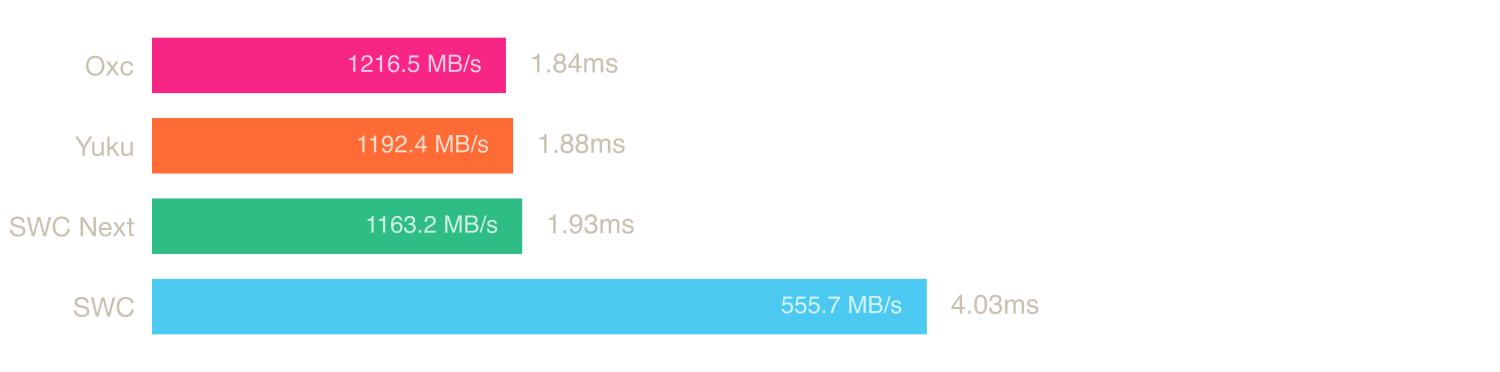
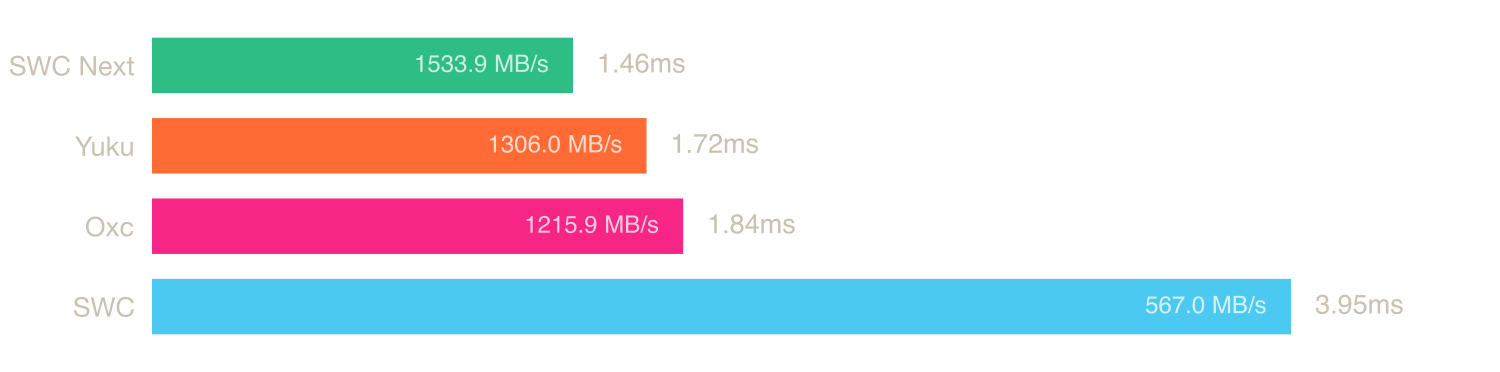
chore: benchmark published SWC Next 0.2.4 crates

diff --git a/scripts/generate-readme.ts b/scripts/generate-readme.ts
@@ -35,7 +35,7 @@ const PARSERS = {
   swc_next: {
     name: "SWC Next",
     language: "Rust",
-    description: "The next-generation SWC parser, built from the local swc-next Rust checkout.",
+    description: "The next-generation SWC parser, built from its published crates.io release.",
     url: "https://github.com/swc-project/swc-next",
     semantic: false,
   },
@@ -390,7 +390,7 @@ function getSystemInfo(metadata: BenchmarkMetadata): string {
 | Zig | ${metadata.toolchains.zig} |
 | Bun | ${metadata.toolchains.bun} |
 
-Oxc: \`${metadata.parsers.oxc_parser}\`; SWC: \`${metadata.parsers.swc_ecma_parser}\`; SWC Next: \`${metadata.parsers.swc_next_ecma_parser}\` at [\`${metadata.swcNext.commit}\`](https://github.com/swc-project/swc-next/commit/${metadata.swcNext.commit})${metadata.swcNext.dirty ? " (modified checkout)" : " (clean checkout)"}.
+Oxc: \`${metadata.parsers.oxc_parser}\`; SWC: \`${metadata.parsers.swc_ecma_parser}\`; SWC Next: \`${metadata.parsers.swc_next_ecma_parser}\` from [crates.io](https://crates.io/crates/swc_next_ecma_parser/${metadata.parsers.swc_next_ecma_parser}).
 
 Yuku source: [pinned revision](${metadata.yuku.replace("git+", "").replace("/?ref=HEAD#", "/commit/")}). Fixture source: [\`${metadata.fixturesCommit}\`](https://github.com/yuku-toolchain/parser-benchmark-files/commit/${metadata.fixturesCommit}). Toolchain versions, input sizes and SHA-256 hashes, and binary hashes are saved in [result/metadata.json](result/metadata.json).`;
 }
@@ -403,7 +403,6 @@ function generateRunSection(): string {
 - [Bun](https://bun.sh/) - JavaScript runtime and package manager
 - [Rust](https://www.rust-lang.org/tools/install) - For building Rust-based parsers
 - [Zig](https://ziglang.org/download/) - For building Zig-based parsers (tested version recorded above)
-- A local [SWC Next](https://github.com/swc-project/swc-next) checkout next to this repository (\`../swc-next\`); the Rust suite uses path dependencies
 
 ### Steps
 
@@ -414,7 +413,7 @@ git clone https://github.com/yuku-toolchain/ecmascript-parser-benchmark-native.g
 cd ecmascript-parser-benchmark-native
 \`\`\`
 
-If SWC Next is not already checked out, run \`git clone https://github.com/swc-project/swc-next.git ../swc-next\`. To reproduce the recorded source, check out the SWC Next commit listed above in a clean sibling checkout. An existing local checkout is used as-is.
+SWC Next dependencies are pinned to the published crates.io release in \`rust-next/Cargo.toml\` and \`rust-next/Cargo.lock\`. Cargo downloads those registry packages; no sibling SWC Next repository or path dependency is used. Package versions, registry sources, and checksums are recorded in \`result/metadata.json\`.
 
 2. Install dependencies:
 

diff --git a/scripts/metadata.ts b/scripts/metadata.ts
@@ -9,11 +9,17 @@ function command(cmd: string[], cwd?: string): string {
 export async function collectMetadata(paths: string[], binaries: readonly string[]) {
   const packages = (await Promise.all(["rust", "rust-next"].map(async (dir) => {
     const lock = Bun.TOML.parse(await Bun.file(`${dir}/Cargo.lock`).text()) as {
-      package: { name: string; version: string }[];
+      package: { name: string; version: string; source?: string; checksum?: string }[];
     };
     return lock.package;
   }))).flat();
   const names = ["oxc_parser", "swc_ecma_parser", "swc_next_ecma_parser"];
+  const swcNextCrates = packages.filter((p) => p.name.startsWith("swc_next_") && p.name !== "swc_next_parser");
+  for (const pkg of swcNextCrates) {
+    if (pkg.source !== "registry+https://github.com/rust-lang/crates.io-index" || !pkg.checksum) {
+      throw new Error(`SWC Next must use published crates.io packages: ${pkg.name}`);
+    }
+  }
   const hash = async (path: string) => new Bun.CryptoHasher("sha256")
     .update(await Bun.file(path).arrayBuffer()).digest("hex");
   return {
@@ -26,8 +32,8 @@ export async function collectMetadata(paths: string[], binaries: readonly string
     toolchains: { bun: Bun.version, rustc: command(["rustc", "--version"]), zig: command(["zig", "version"]) },
     parsers: Object.fromEntries(packages.filter((p) => names.includes(p.name)).map((p) => [p.name, p.version])),
     swcNext: {
-      commit: command(["git", "rev-parse", "HEAD"], "../swc-next"),
-      dirty: command(["git", "status", "--porcelain"], "../swc-next") !== "",
+      registry: "crates.io",
+      crates: swcNextCrates,
     },
     yuku: (await Bun.file("zig/build.zig.zon").text()).match(/\.url = "([^"]+)"/)![1],
     fixturesCommit: command(["git", "rev-parse", "HEAD"], "files"),

diff --git a/README.md b/README.md
@@ -10,12 +10,12 @@ Benchmarks for ECMAScript parsers compiled to native binaries (Zig, Rust), measu
 | CPU | Apple M5 Max |
 | Cores | 18 |
 | Memory | 64 GB |
-| Run started (UTC) | 2026-10-09T08:30:58.956Z |
+| Run started (UTC) | 2026-10-09T09:37:45.989Z |
 | Rust | rustc 1.98.0 (88d9e12ae 2026-08-18) |
 | Zig | 0.16.0 |
 | Bun | 1.4.0 |
 
-Oxc: `0.102.0`; SWC: `33.0.1`; SWC Next: `0.2.3` at [`5458b99247da8e05ddbe710458b2a439b56278ec`](https://github.com/swc-project/swc-next/commit/5458b99247da8e05ddbe710458b2a439b56278ec) (clean checkout).
+Oxc: `0.102.0`; SWC: `33.0.1`; SWC Next: `0.2.4` from [crates.io](https://crates.io/crates/swc_next_ecma_parser/0.2.4).
 
 Yuku source: [pinned revision](https://github.com/yuku-toolchain/yuku/commit/4d29aa321e40cc1d04f561c58f25f56883489850). Fixture source: [`e25ab06730f743838b2c693d2126ea0162a661c6`](https://github.com/yuku-toolchain/parser-benchmark-files/commit/e25ab06730f743838b2c693d2126ea0162a661c6). Toolchain versions, input sizes and SHA-256 hashes, and binary hashes are saved in [result/metadata.json](result/metadata.json).
 
@@ -43,7 +43,7 @@ An extensible Rust-based platform for compiling and bundling JavaScript and Type
 
 **Language:** Rust
 
-The next-generation SWC parser, built from the local swc-next Rust checkout.
+The next-generation SWC parser, built from its published crates.io release.
 
 ## Benchmarks
 
@@ -55,10 +55,10 @@ The next-generation SWC parser, built from the local swc-next Rust checkout.
 
 | Parser | Median | Min | p99 | Relative |
 |--------|--------|-----|-----|----------|
-| Yuku | 14.39 ms | 14.15 ms | 15.49 ms | 1.00× |
-| SWC Next | 14.99 ms | 14.72 ms | 17.58 ms | 1.04× |
-| Oxc | 21.43 ms | 20.56 ms | 23.89 ms | 1.49× |
-| SWC | 34.28 ms | 33.39 ms | 42.58 ms | 2.38× |
+| SWC Next | 13.88 ms | 13.28 ms | 19.94 ms | 1.00× |
+| Yuku | 14.04 ms | 13.48 ms | 16.07 ms | 1.01× |
+| Oxc | 20.08 ms | 19.56 ms | 21.16 ms | 1.45× |
+| SWC | 33.13 ms | 32.25 ms | 42.55 ms | 2.39× |
 
 ### [checker.ts](https://raw.githubusercontent.com/yuku-toolchain/parser-benchmark-files/e25ab06730f743838b2c693d2126ea0162a661c6/checker.ts)
 
@@ -68,10 +68,10 @@ The next-generation SWC parser, built from the local swc-next Rust checkout.
 
 | Parser | Median | Min | p99 | Relative |
 |--------|--------|-----|-----|----------|
-| Yuku | 5.02 ms | 4.80 ms | 6.27 ms | 1.00× |
-| SWC Next | 5.09 ms | 4.96 ms | 7.02 ms | 1.01× |
-| Oxc | 7.07 ms | 6.69 ms | 8.39 ms | 1.41× |
-| SWC | 11.24 ms | 10.86 ms | 11.81 ms | 2.24× |
+| Yuku | 4.75 ms | 4.54 ms | 4.99 ms | 1.00× |
+| SWC Next | 4.79 ms | 4.52 ms | 6.21 ms | 1.01× |
+| Oxc | 6.64 ms | 6.37 ms | 7.93 ms | 1.40× |
+| SWC | 12.07 ms | 10.71 ms | 19.00 ms | 2.54× |
 
 ### [lib.dom.d.ts](https://raw.githubusercontent.com/yuku-toolchain/parser-benchmark-files/e25ab06730f743838b2c693d2126ea0162a661c6/lib.dom.d.ts)
 
@@ -81,10 +81,10 @@ The next-generation SWC parser, built from the local swc-next Rust checkout.
 
 | Parser | Median | Min | p99 | Relative |
 |--------|--------|-----|-----|----------|
-| Oxc | 1.84 ms | 1.81 ms | 1.99 ms | 1.00× |
-| Yuku | 1.88 ms | 1.72 ms | 2.37 ms | 1.02× |
-| SWC Next | 1.93 ms | 1.88 ms | 2.60 ms | 1.05× |
-| SWC | 4.03 ms | 3.88 ms | 4.80 ms | 2.19× |
+| SWC Next | 1.46 ms | 1.40 ms | 2.04 ms | 1.00× |
+| Yuku | 1.72 ms | 1.61 ms | 1.78 ms | 1.17× |
+| Oxc | 1.84 ms | 1.79 ms | 2.04 ms | 1.26× |
+| SWC | 3.95 ms | 3.79 ms | 6.34 ms | 2.71× |
 
 ### [react.js](https://raw.githubusercontent.com/yuku-toolchain/parser-benchmark-files/e25ab06730f743838b2c693d2126ea0162a661c6/react.js)
 
@@ -94,10 +94,10 @@ The next-generation SWC parser, built from the local swc-next Rust checkout.
 
 | Parser | Median | Min | p99 | Relative |
 |--------|--------|-----|-----|----------|
-| SWC Next | 0.08 ms | 0.08 ms | 0.11 ms | 1.00× |
-| Yuku | 0.08 ms | 0.08 ms | 0.14 ms | 1.05× |
-| Oxc | 0.13 ms | 0.13 ms | 0.26 ms | 1.65× |
-| SWC | 0.23 ms | 0.22 ms | 0.29 ms | 2.91× |
+| SWC Next | 0.07 ms | 0.06 ms | 0.14 ms | 1.00× |
+| Yuku | 0.08 ms | 0.08 ms | 0.12 ms | 1.19× |
+| Oxc | 0.13 ms | 0.12 ms | 0.23 ms | 1.91× |
+| SWC | 0.24 ms | 0.22 ms | 0.50 ms | 3.49× |
 
 ## Semantic
 
@@ -113,9 +113,9 @@ The benchmarks below measure parsing followed by this additional pass, which bui
 
 | Parser | Median | Min | p99 | Relative |
 |--------|--------|-----|-----|----------|
-| SWC Next + Semantic | 28.55 ms | 27.85 ms | 32.24 ms | 1.00× |
-| Yuku + Semantic | 34.68 ms | 33.87 ms | 44.00 ms | 1.21× |
-| Oxc + Semantic | 47.88 ms | 46.35 ms | 55.13 ms | 1.68× |
+| SWC Next + Semantic | 26.91 ms | 26.08 ms | 32.87 ms | 1.00× |
+| Yuku + Semantic | 33.90 ms | 32.91 ms | 39.66 ms | 1.26× |
+| Oxc + Semantic | 45.80 ms | 44.52 ms | 47.97 ms | 1.70× |
 
 ### [checker.ts](https://raw.githubusercontent.com/yuku-toolchain/parser-benchmark-files/e25ab06730f743838b2c693d2126ea0162a661c6/checker.ts)
 
@@ -123,9 +123,9 @@ The benchmarks below measure parsing followed by this additional pass, which bui
 
 | Parser | Median | Min | p99 | Relative |
 |--------|--------|-----|-----|----------|
-| SWC Next + Semantic | 10.29 ms | 10.01 ms | 11.18 ms | 1.00× |
-| Yuku + Semantic | 13.15 ms | 12.30 ms | 17.10 ms | 1.28× |
-| Oxc + Semantic | 15.86 ms | 15.23 ms | 17.10 ms | 1.54× |
+| SWC Next + Semantic | 9.78 ms | 9.59 ms | 10.50 ms | 1.00× |
+| Yuku + Semantic | 12.04 ms | 11.76 ms | 12.53 ms | 1.23× |
+| Oxc + Semantic | 15.88 ms | 15.07 ms | 24.68 ms | 1.62× |
 
 ### [lib.dom.d.ts](https://raw.githubusercontent.com/yuku-toolchain/parser-benchmark-files/e25ab06730f743838b2c693d2126ea0162a661c6/lib.dom.d.ts)
 
@@ -133,9 +133,9 @@ The benchmarks below measure parsing followed by this additional pass, which bui
 
 | Parser | Median | Min | p99 | Relative |
 |--------|--------|-----|-----|----------|
-| SWC Next + Semantic | 3.07 ms | 3.00 ms | 3.60 ms | 1.00× |
-| Yuku + Semantic | 3.47 ms | 3.25 ms | 4.16 ms | 1.13× |
-| Oxc + Semantic | 3.89 ms | 3.77 ms | 4.36 ms | 1.26× |
+| SWC Next + Semantic | 2.63 ms | 2.54 ms | 3.71 ms | 1.00× |
+| Yuku + Semantic | 3.26 ms | 3.12 ms | 3.41 ms | 1.24× |
+| Oxc + Semantic | 3.76 ms | 3.67 ms | 4.11 ms | 1.43× |
 
 ### [react.js](https://raw.githubusercontent.com/yuku-toolchain/parser-benchmark-files/e25ab06730f743838b2c693d2126ea0162a661c6/react.js)
 
@@ -143,9 +143,9 @@ The benchmarks below measure parsing followed by this additional pass, which bui
 
 | Parser | Median | Min | p99 | Relative |
 |--------|--------|-----|-----|----------|
-| SWC Next + Semantic | 0.14 ms | 0.14 ms | 0.24 ms | 1.00× |
-| Yuku + Semantic | 0.21 ms | 0.21 ms | 0.33 ms | 1.49× |
-| Oxc + Semantic | 0.28 ms | 0.27 ms | 0.34 ms | 1.97× |
+| SWC Next + Semantic | 0.13 ms | 0.13 ms | 0.26 ms | 1.00× |
+| Yuku + Semantic | 0.20 ms | 0.18 ms | 0.26 ms | 1.51× |
+| Oxc + Semantic | 0.28 ms | 0.27 ms | 0.43 ms | 2.14× |
 
 ## Run Benchmarks
 
@@ -154,7 +154,6 @@ The benchmarks below measure parsing followed by this additional pass, which bui
 - [Bun](https://bun.sh/) - JavaScript runtime and package manager
 - [Rust](https://www.rust-lang.org/tools/install) - For building Rust-based parsers
 - [Zig](https://ziglang.org/download/) - For building Zig-based parsers (tested version recorded above)
-- A local [SWC Next](https://github.com/swc-project/swc-next) checkout next to this repository (`../swc-next`); the Rust suite uses path dependencies
 
 ### Steps
 
@@ -165,7 +164,7 @@ git clone https://github.com/yuku-toolchain/ecmascript-parser-benchmark-native.g
 cd ecmascript-parser-benchmark-native
 ```
 
-If SWC Next is not already checked out, run `git clone https://github.com/swc-project/swc-next.git ../swc-next`. To reproduce the recorded source, check out the SWC Next commit listed above in a clean sibling checkout. An existing local checkout is used as-is.
+SWC Next dependencies are pinned to the published crates.io release in `rust-next/Cargo.toml` and `rust-next/Cargo.lock`. Cargo downloads those registry packages; no sibling SWC Next repository or path dependency is used. Package versions, registry sources, and checksums are recorded in `result/metadata.json`.
 
 2. Install dependencies:
 
